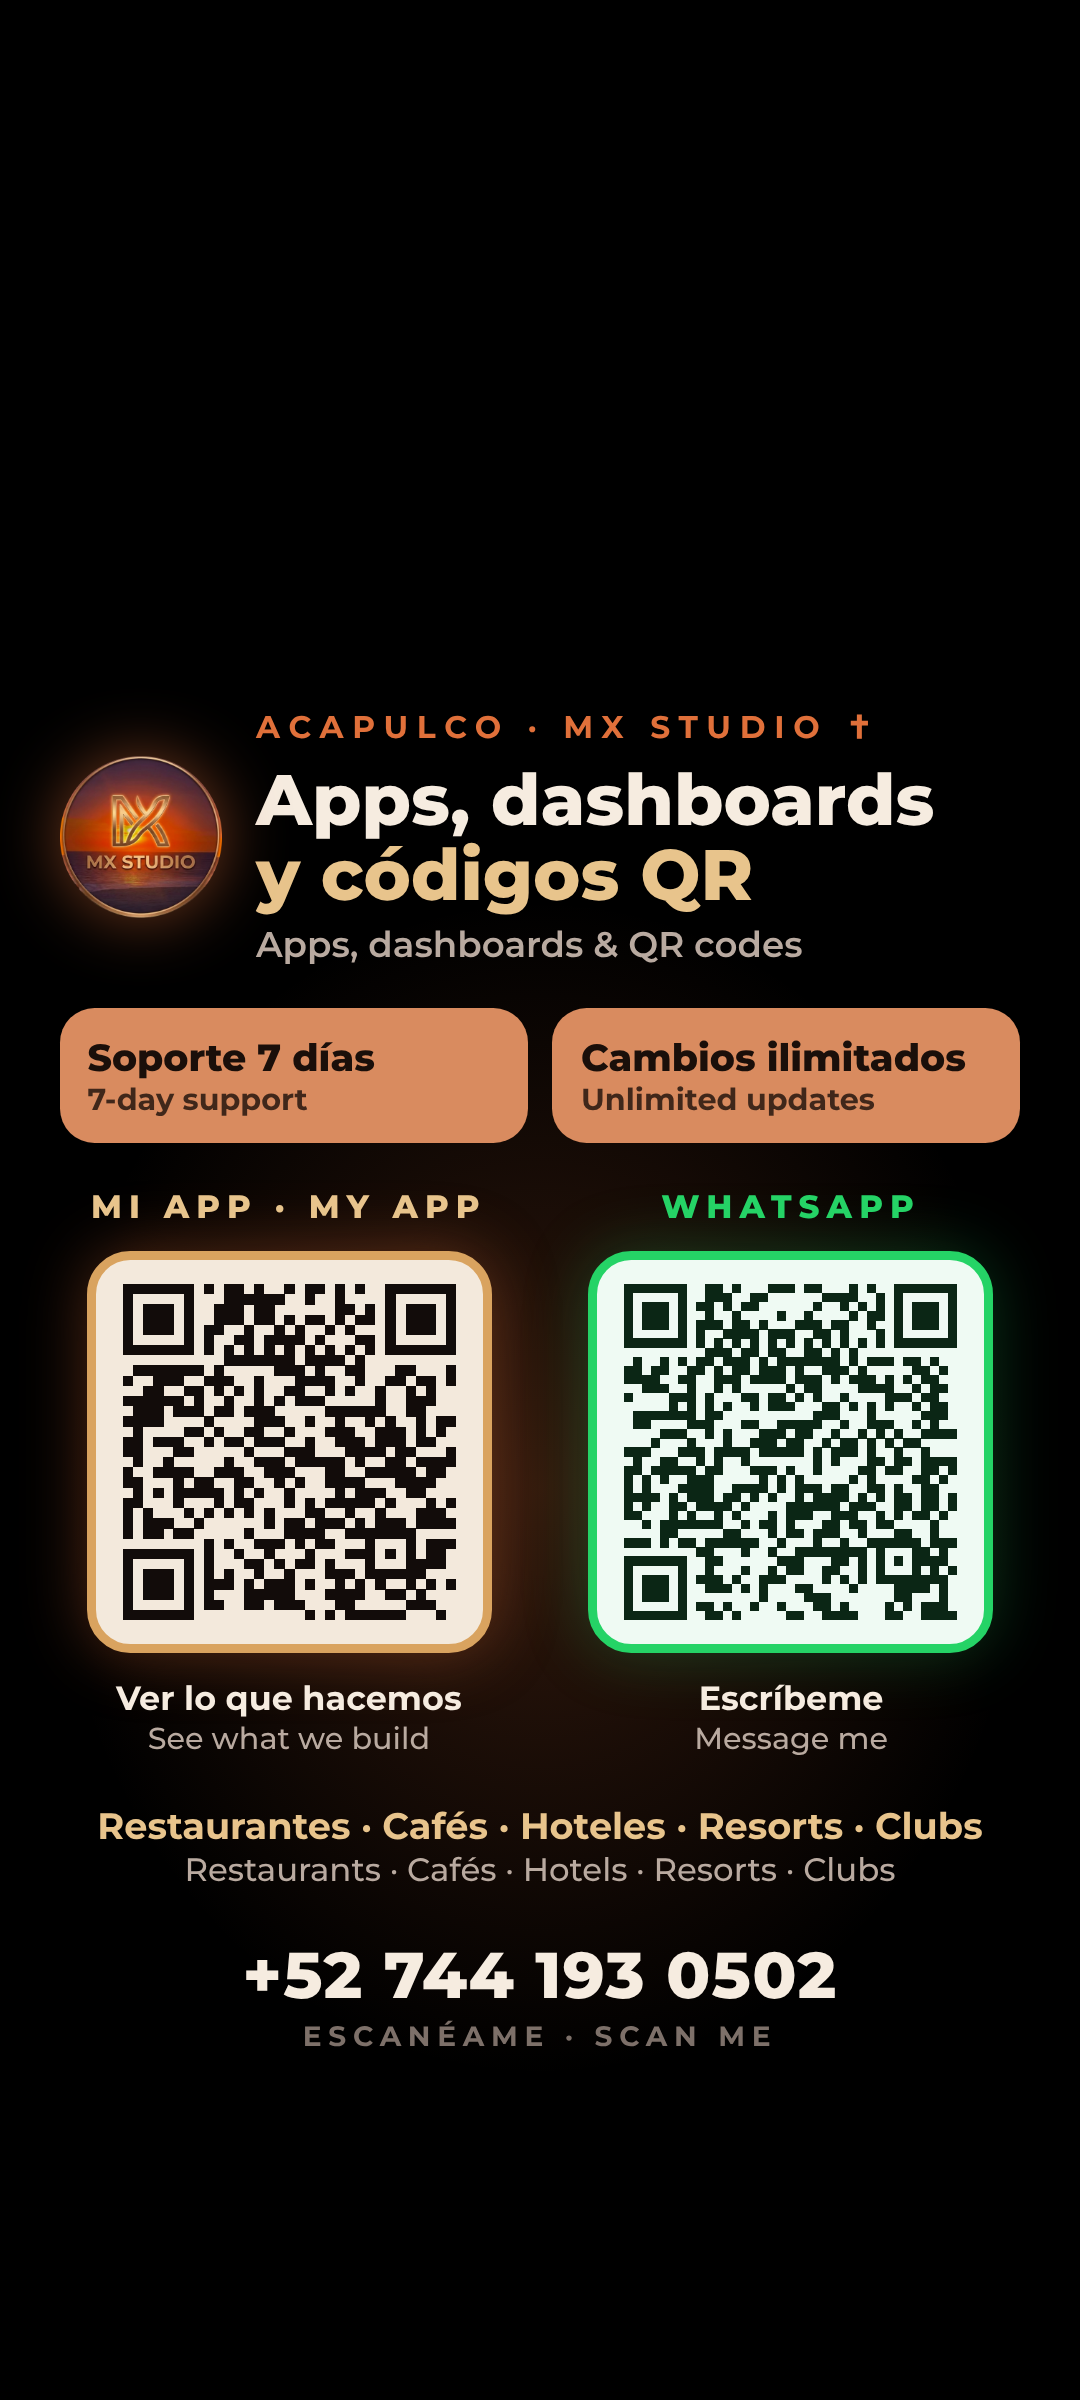
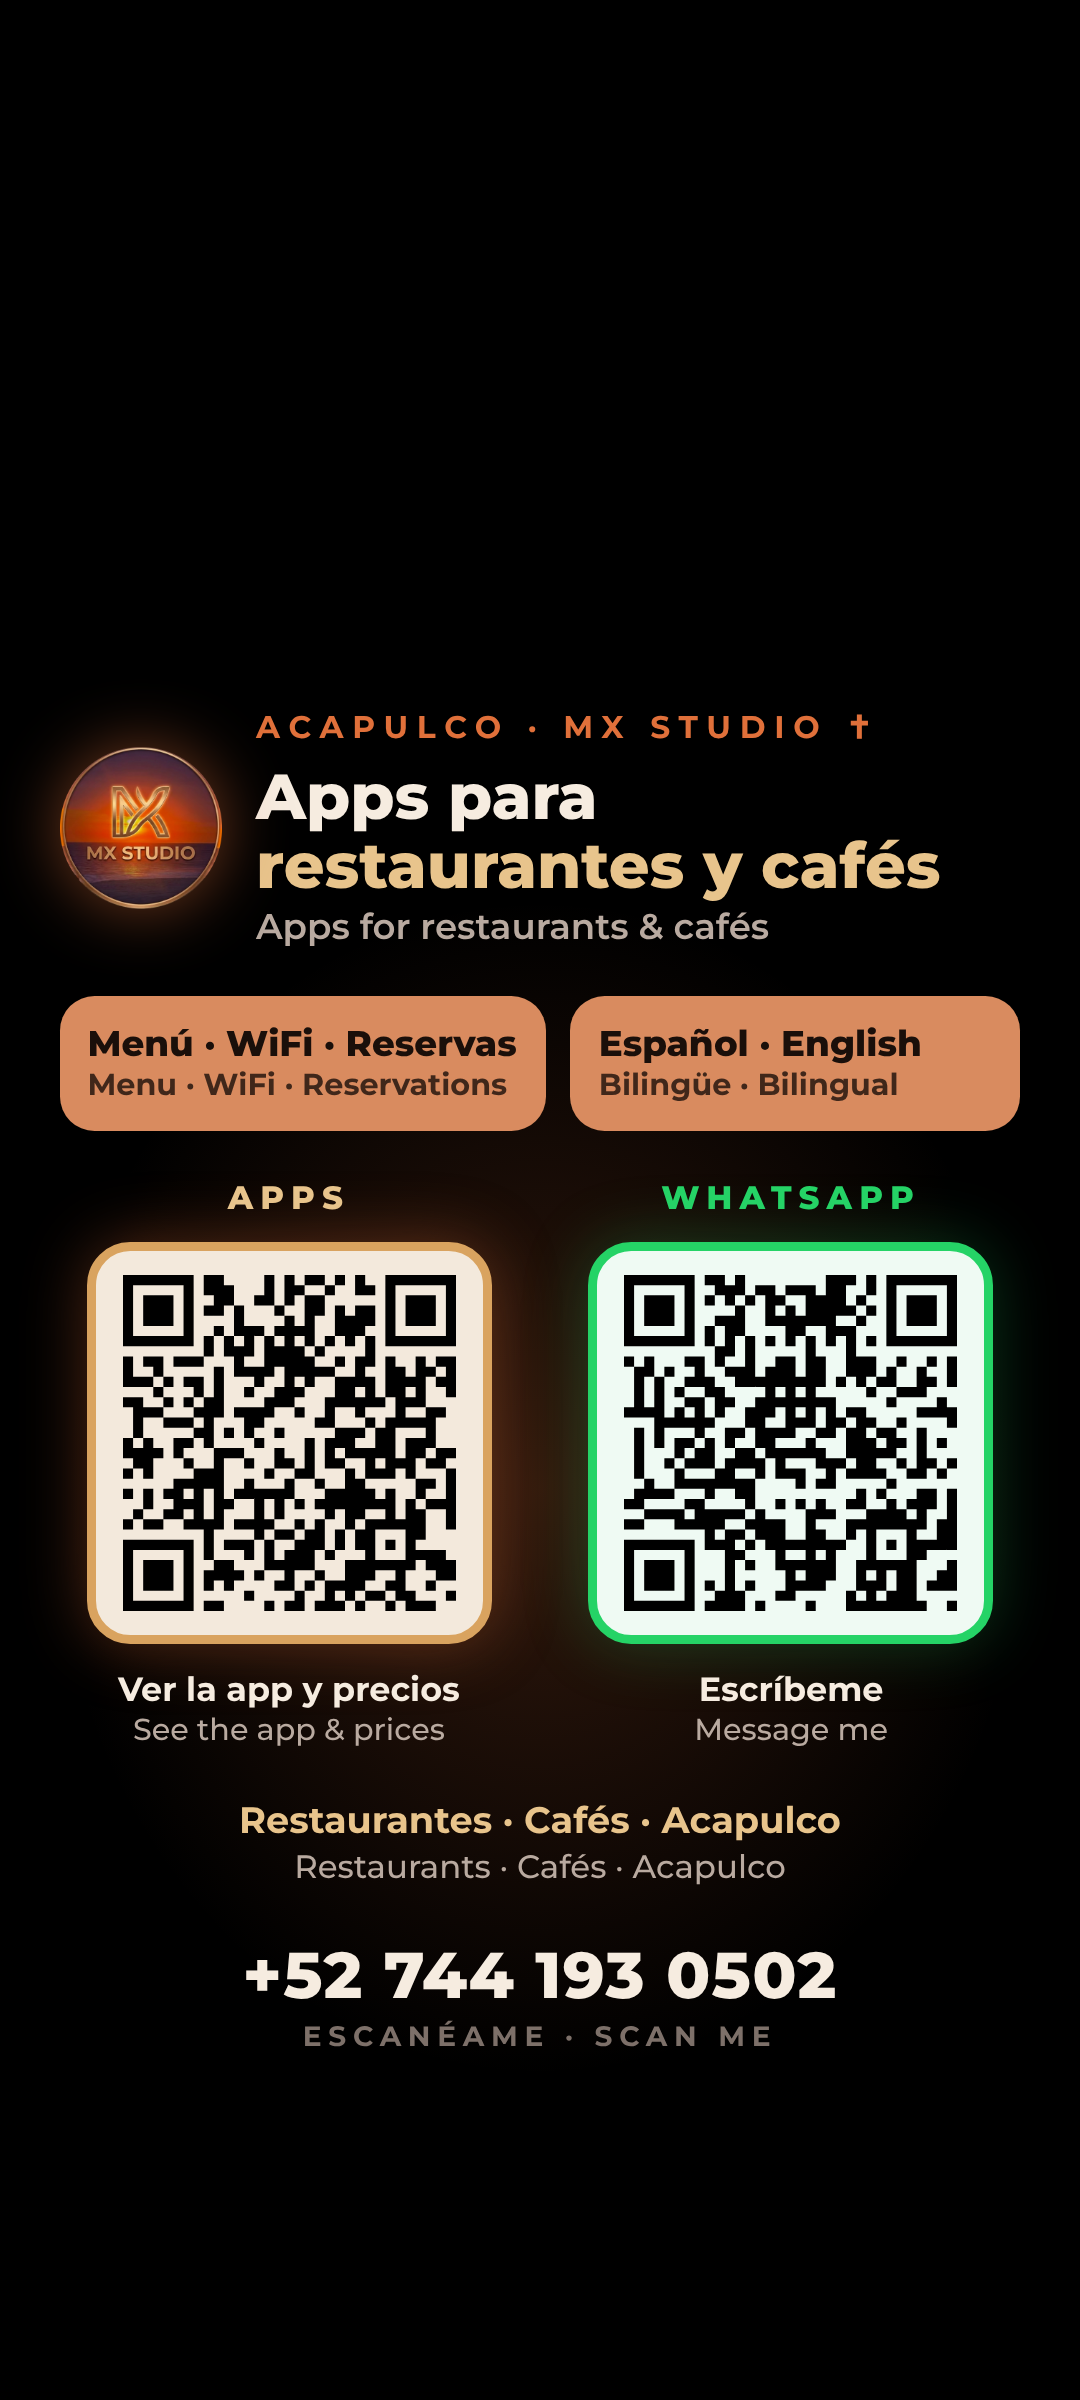
Lock screen ✝: restaurants & cafés, apps QR → Precios, WhatsApp QR (scan-tested)
Claude-Session: https://claude.ai/code/session_01YPaXvf6E9BxaM9dLb5xWbQ

Changed region(s): [[0.0611, 0.3125, 0.9472, 0.7812]]

diff --git a/print/acapulco/source/lock.html b/print/acapulco/source/lock.html
@@ -11,12 +11,12 @@ body{font-family:M,sans-serif;color:#f6ece0;background:#000;position:relative}
 .head{display:flex;align-items:center;gap:3.2vw}
 .head img{width:15vw;height:15vw;filter:drop-shadow(0 0 3vw rgba(224,112,58,.5))}
 .k{font-weight:700;font-size:2.9vw;letter-spacing:.28em;color:#e0703a}
-.t{font-weight:800;font-size:6.6vw;line-height:1.08;margin-top:.6vh}
+.t{font-weight:800;font-size:5.9vw;line-height:1.08;margin-top:.6vh}
 .t span{color:#e8c48c}
 .en{font-weight:600;font-size:3.3vw;color:#b9aaa0;margin-top:.3vh}
 .pills{display:grid;grid-template-columns:1fr 1fr;gap:2.4vw}
 .pill{background:#d98b5f;color:#1a0f0a;border-radius:3.2vw;padding:1.1vh 2.6vw}
-.pill b{display:block;font-weight:800;font-size:3.5vw;white-space:nowrap}
+.pill b{display:block;font-weight:800;font-size:3.3vw;white-space:nowrap}
 .pill small{display:block;font-weight:700;font-size:2.8vw;opacity:.8}
 .qrs{display:grid;grid-template-columns:1fr 1fr;gap:4vw}
 .q{text-align:center}
@@ -33,12 +33,12 @@ body{font-family:M,sans-serif;color:#f6ece0;background:#000;position:relative}
 .num small{display:block;font-weight:700;font-size:2.6vw;letter-spacing:.24em;color:#7d7069;margin-top:.3vh}
 </style></head><body><div class="glow"></div>
 <div class="zone">
- <div class="head"><img src="logo.png"><div><div class="k">ACAPULCO · MX STUDIO ✝</div><div class="t">Apps, dashboards<br><span>y códigos QR</span></div><div class="en">Apps, dashboards &amp; QR codes</div></div></div>
- <div class="pills"><div class="pill"><b>Soporte 7 días</b><small>7-day support</small></div><div class="pill"><b>Cambios ilimitados</b><small>Unlimited updates</small></div></div>
+ <div class="head"><img src="logo.png"><div><div class="k">ACAPULCO · MX STUDIO ✝</div><div class="t">Apps para<br><span>restaurantes y cafés</span></div><div class="en">Apps for restaurants &amp; cafés</div></div></div>
+ <div class="pills"><div class="pill"><b>Menú · WiFi · Reservas</b><small>Menu · WiFi · Reservations</small></div><div class="pill"><b>Español · English</b><small>Bilingüe · Bilingual</small></div></div>
  <div class="qrs">
-  <div class="q app"><div class="lbl">MI APP · MY APP</div><div class="box"><img src="qr-app.svg"></div><div class="cap">Ver lo que hacemos<span>See what we build</span></div></div>
+  <div class="q app"><div class="lbl">APPS</div><div class="box"><img src="qr-app.svg"></div><div class="cap">Ver la app y precios<span>See the app &amp; prices</span></div></div>
   <div class="q wa"><div class="lbl">WHATSAPP</div><div class="box"><img src="qr-wa.svg"></div><div class="cap">Escríbeme<span>Message me</span></div></div>
  </div>
- <div class="biz"><b>Restaurantes · Cafés · Hoteles · Resorts · Clubs</b><span>Restaurants · Cafés · Hotels · Resorts · Clubs</span></div>
+ <div class="biz"><b>Restaurantes · Cafés · Acapulco</b><span>Restaurants · Cafés · Acapulco</span></div>
  <div class="num">+52 744 193 0502<small>ESCANÉAME · SCAN ME</small></div>
 </div></body></html>
